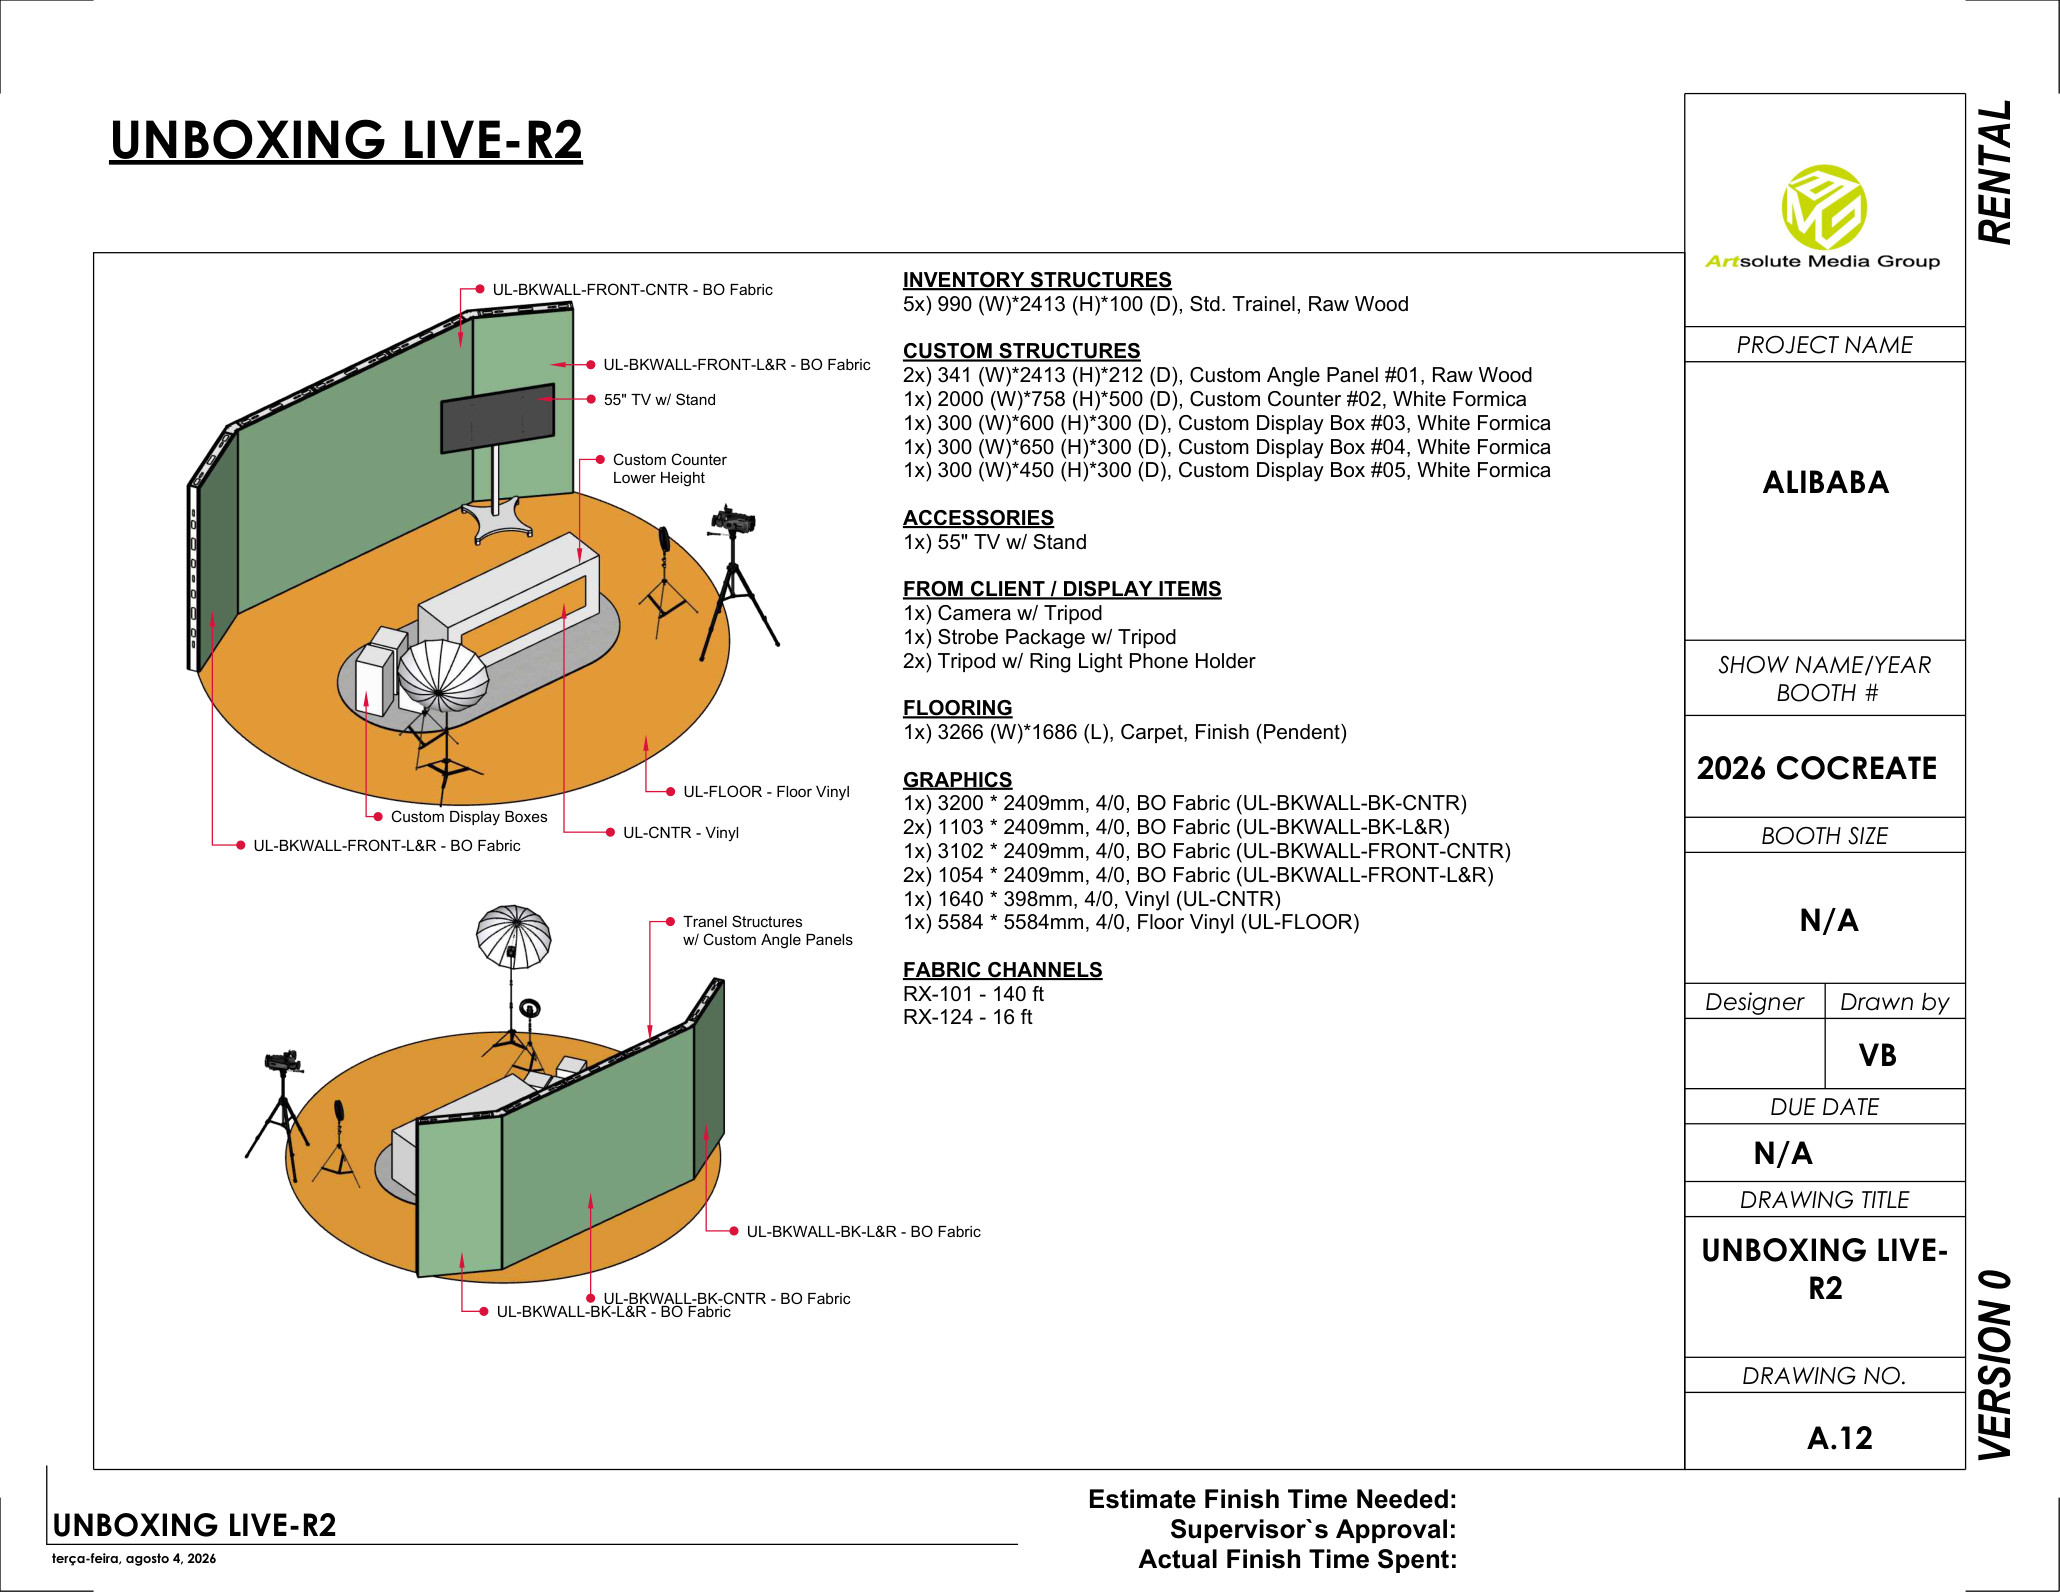
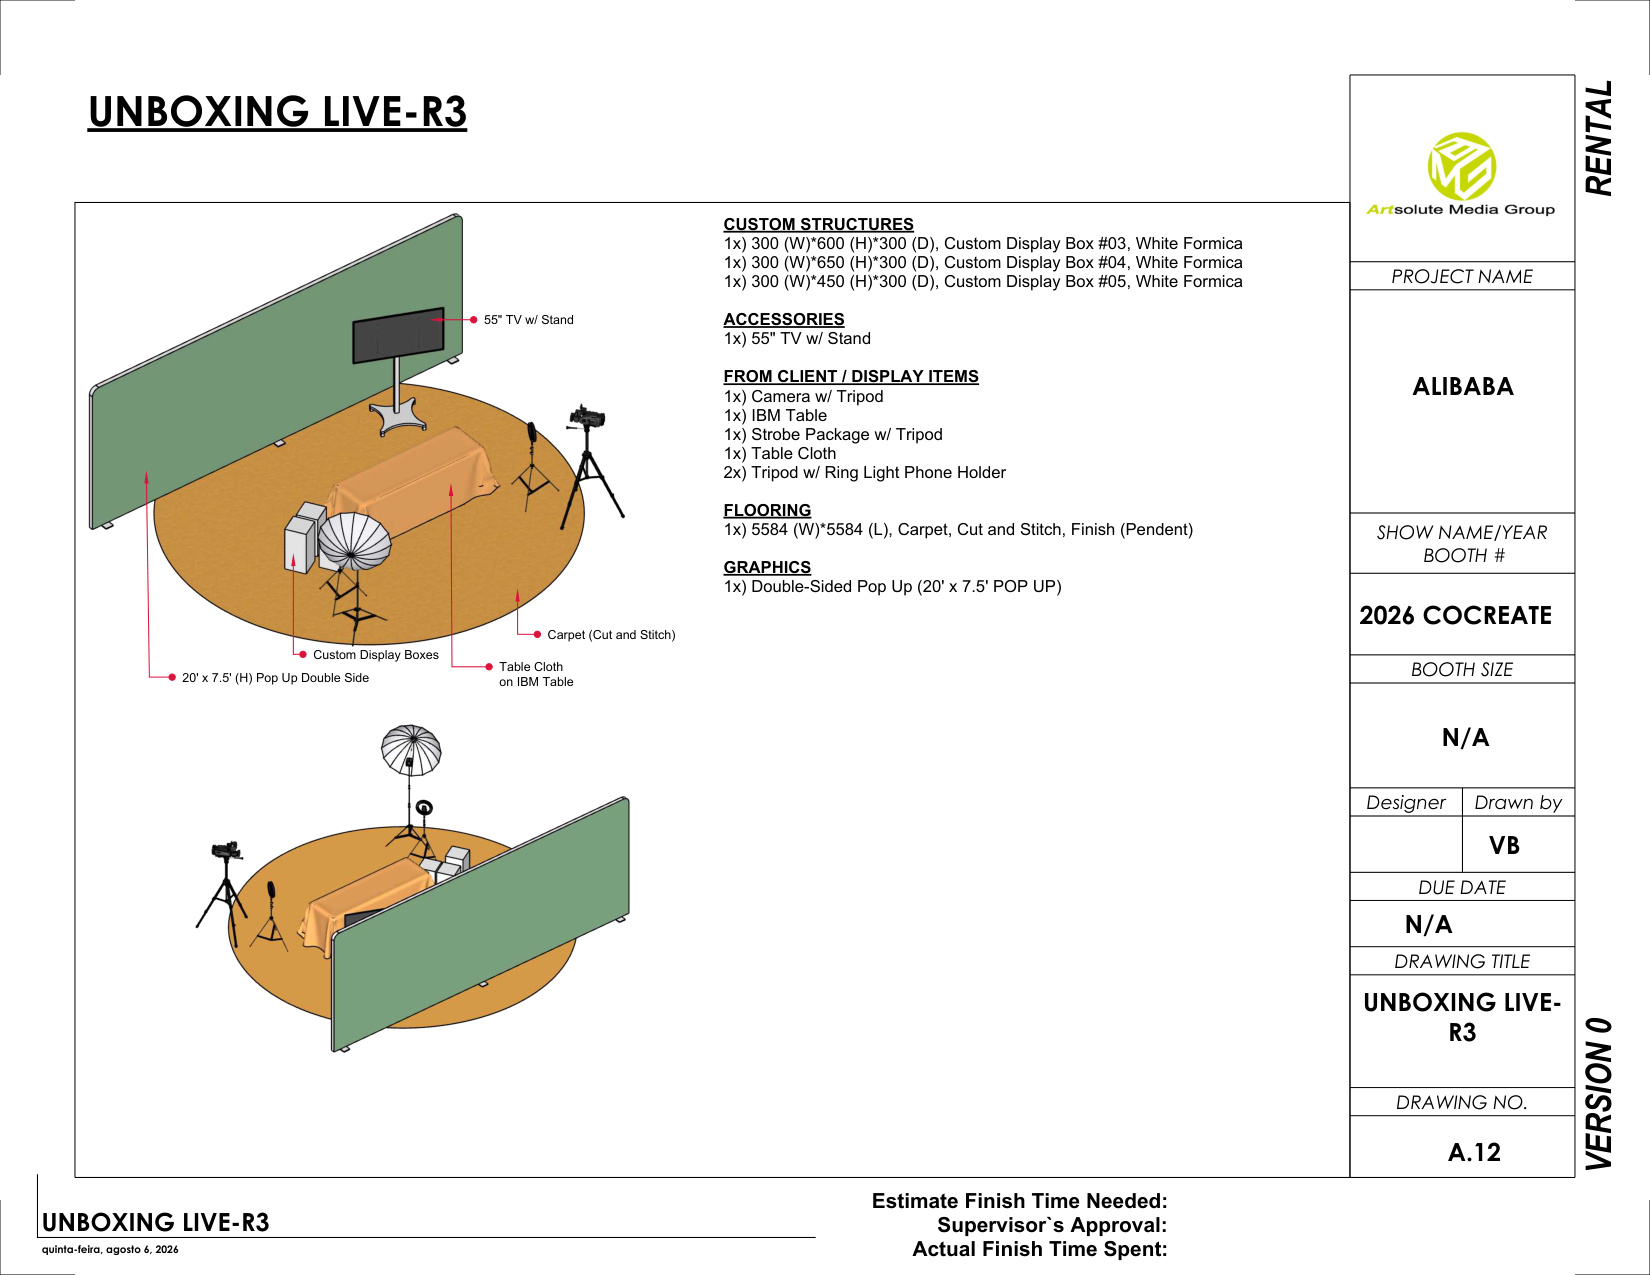
Unboxing Live: R3 shop drawings — Double-Sided Pop Up replaces trainel+panel+counter

diff --git a/script.js b/script.js
@@ -252,8 +252,8 @@ ZONES: [
   { name: 'Next-Gen Sourcing + AI', owner: 'Ari', status: 'TBD', scope: 'Design not received', flag: '⚠ Blocking engineering', blocking: true, req: [] },
   { name: 'Buyer Story', owner: 'Ari', status: 'Quoted', img: 'buyer-story-1', renders: [...gallery('buyer-story', 4)], scope: 'Youngs provide structure. AMG build + 1× 42" TV + stand.', flag: '⚠ Youngs structure · AMG build + TV',
     req: ['Structure (by Youngs)', 'AMG build', '1× 42" TV + stand'] },
-  { name: 'Unboxing Live', owner: 'Ari', status: 'Quoted', img: 'unboxing-live-v3', renders: ['unboxing-live-render-v2', 'unboxing-live-photo'], drawings: [], scope: 'AMG shop drawing A.12 (Unboxing Live-R2, VB V0). 5× trainel (raw wood) + 2× custom angle panels, custom counter, 3× custom display boxes, 55" TV w/ stand. Client: camera + strobe + 2× ring-light tripod (Youngs). Graphics: BO fabric back walls (front+back), UL-CNTR + floor vinyl (5584×5584), RX-101/124 channels', flag: '⚠ Revised to R2 — now 55" TV + fabric back walls (was 42" TV + stand only)',
-    req: ['5× Std Trainel — 990×2413, raw wood', '2× Custom Angle Panel #01 — 341×2413, raw wood', '1× Custom Counter #02 — 2000×758×500, White Formica', '3× Custom Display Box #03–05 — White Formica', '1× 55" TV w/ stand', 'Client (Youngs): camera w/ tripod, strobe package, 2× ring-light phone tripod', 'Graphics: BO fabric back walls front+back (UL-BKWALL), UL-CNTR vinyl, UL-FLOOR floor vinyl 5584×5584', 'Fabric channels: RX-101 (140 ft) + RX-124 (16 ft)', '1× Carpet — 3266×1686 (finish pendent)'] },
+  { name: 'Unboxing Live', owner: 'Ari', status: 'Quoted', img: 'unboxing-live-v3', renders: ['unboxing-live-render-v2', 'unboxing-live-photo'], drawings: ['unboxing-dwg-1'], scope: 'AMG shop drawing A.12 (Unboxing Live-R3, VB V0). Double-sided pop-up 20\'×7.5\' (replaces trainel+panel+counter). 3× custom display boxes #03–05 (White Formica), 55" TV w/ stand. Client: camera, strobe package, IBM table, table cloth, 2× ring-light tripod. Carpet 5584×5584 cut & stitch.', flag: '⚠ R3 — switched to Double-Sided Pop Up 20\'×7.5\' (was trainel + angle panel + counter in R2)',
+    req: ['1× Double-Sided Pop Up — 20\'×7.5\'H', '3× Custom Display Box #03 — 300×600×300, White Formica', '1× Custom Display Box #04 — 300×650×300, White Formica', '1× Custom Display Box #05 — 300×450×300, White Formica', '1× 55" TV w/ Stand', 'Client: 1× Camera w/ Tripod, 1× Strobe Package w/ Tripod, 2× Tripod w/ Ring Light Phone Holder', 'Client: 1× IBM Table + 1× Table Cloth', '1× Carpet — 5584×5584, Cut & Stitch (finish pendent)'] },
   { name: 'Supplier A200 — Zone A', owner: 'Jin & Chris', status: 'In Review', img: 'zone-a-map', renders: ['zone-a-map'], drawings: [], scope: 'A-01 ~ A-09. 9× 8sqm. Wooden backdrop (4×2.5mH) + 42" TV + stand + Std Counter + Grey carpet. A200 standard build.', flag: '9× 8sqm · 9 std counters',
     req: ['Wooden backdrop (4×2.5mH)', '42" TV + stand', 'Std Counter', 'Grey carpet', 'Furniture (by Youngs)'], tiers: ZONE_A_TIER, units: makeTieredUnits('zone-a', ZONE_A_TIER, i => BOOTH_LABELS.a[i-1], n => [`zone-a-render-${n*2}`, `zone-a-render-${n*2-1}`]) },
   { name: 'Supplier A200 — Zone B', owner: 'Jin & Chris', status: 'In Review', img: 'zone-b-map', renders: ['zone-b-map'], drawings: [], scope: 'B-01 ~ B-08. 7× 8sqm. Wooden backdrop (4×2.5mH) + 42" TV + stand + Std Counter + Grey carpet. A200 standard build.', flag: '7× 8sqm · 7 std counters',

diff --git a/index.html b/index.html
@@ -239,7 +239,7 @@
   </div>
 </div>
 
-<script src="script.js?v=64"></script>
+<script src="script.js?v=65"></script>
 <script>
 var FP_PAGES = ['assets/floor-plan-lacc.jpg', 'assets/floor-plan-cgs.jpg'];
 var FP_CAPTIONS = ['Page 1 — Zone Overview + Legend', 'Page 2 — CGS Exhibitor Booths (最終版)'];
